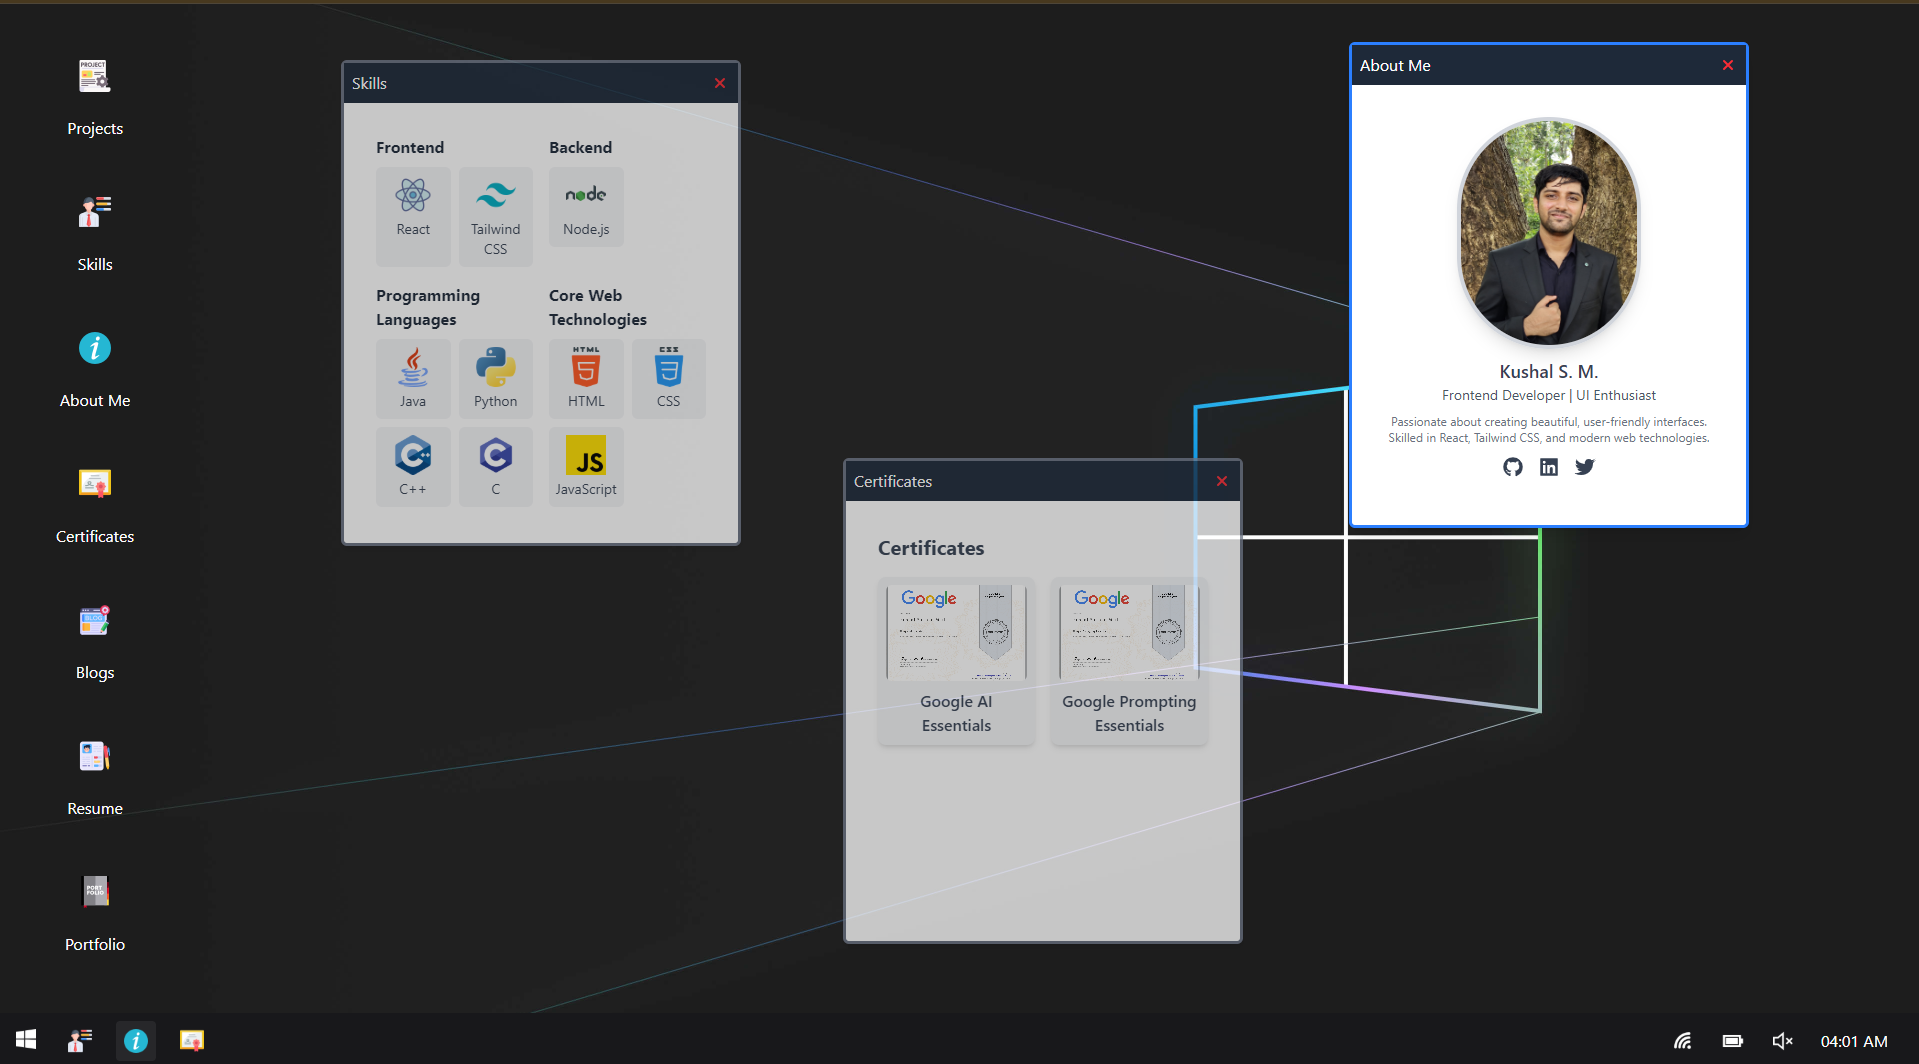
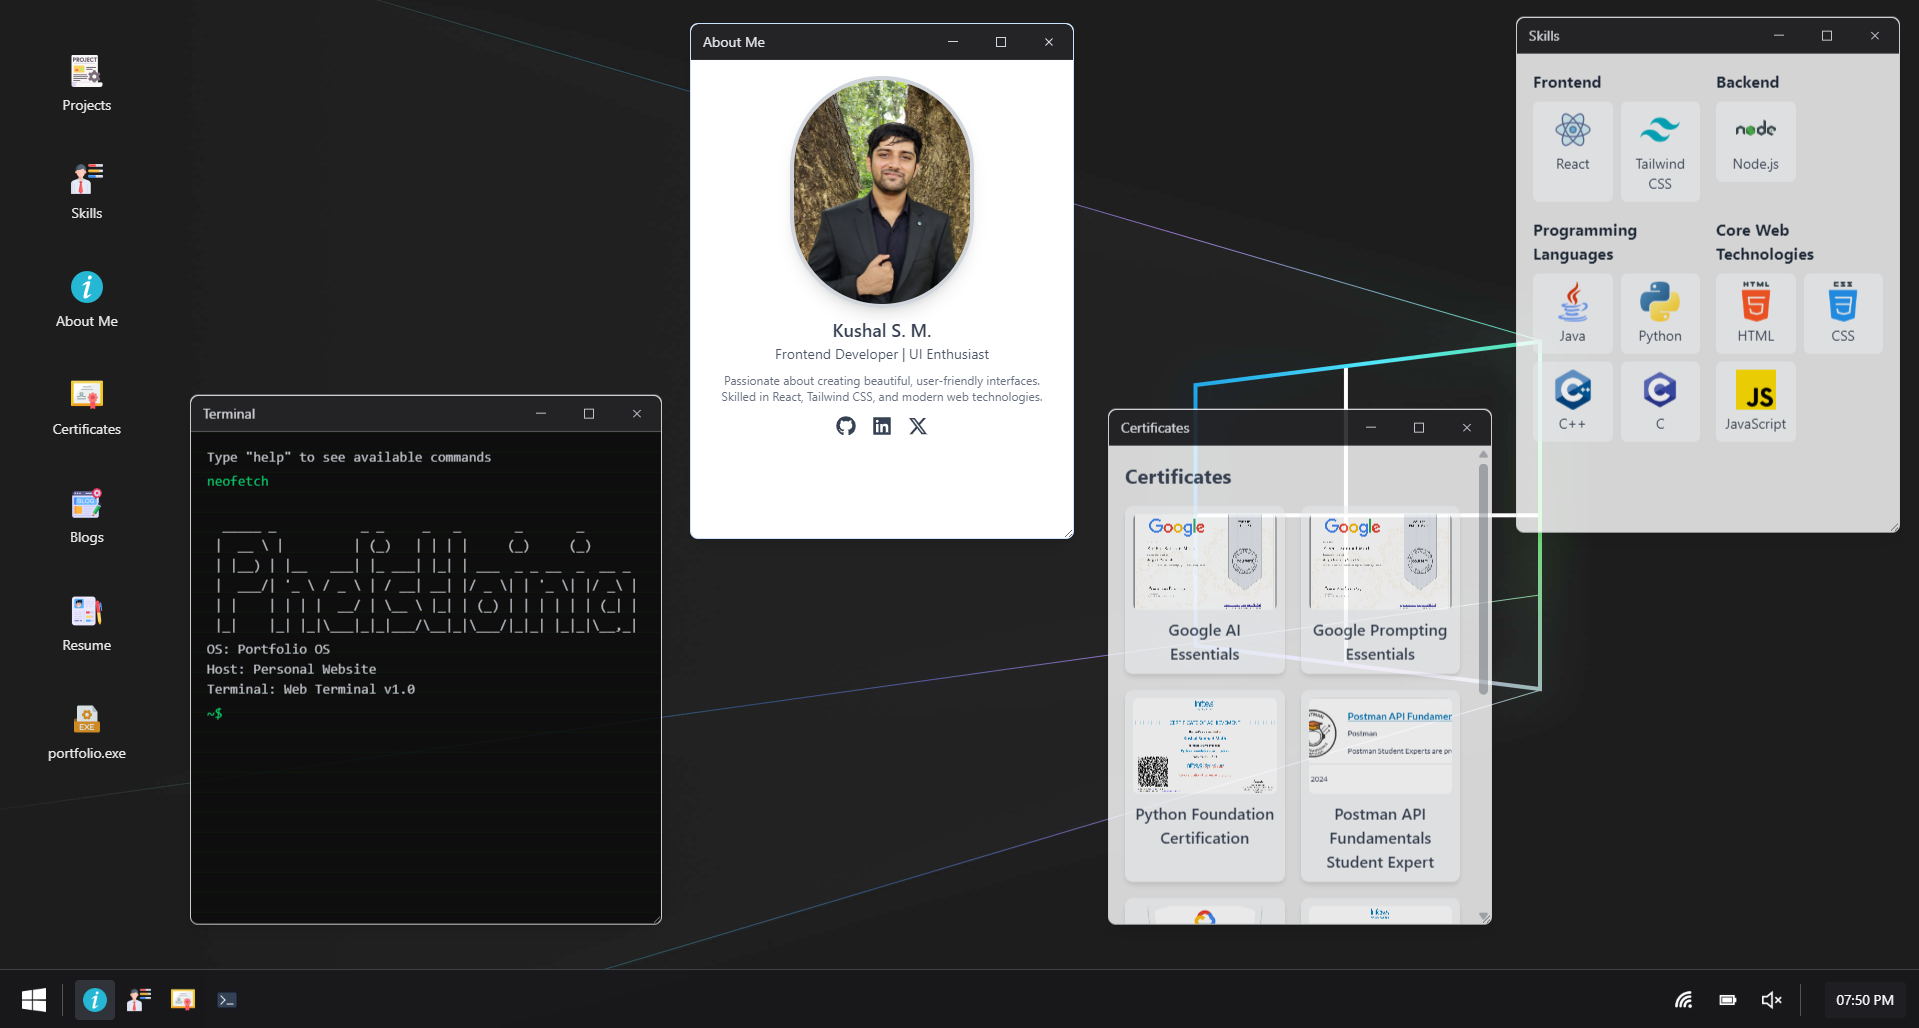
feat: added new projects

diff --git a/src/components/windowsUI/Terminal.jsx b/src/components/windowsUI/Terminal.jsx
@@ -88,6 +88,8 @@
 // export default Terminal;
 
 import React, { useState, useEffect, useRef } from "react";
+import { projects } from "../../data/projectsData";
+import { skillsData } from "../../data/skillsData";
 
 // ASCII Art for neofetch
 const ASCII_ART = `
@@ -98,7 +100,6 @@ const ASCII_ART = `
  | |    | | | |  __/ | \\__ \\ |_| | (_) | | | | | | (_| |
  |_|    |_| |_|\\___|_|_|___/\\__|_|\\___/|_|_| |_|_|\\__,_|
 `;
-
 
 // Help text
 const HELP_TEXT = `
@@ -143,17 +144,14 @@ Utility:
   echo [text] - Repeat back the input text
 `;
 
-// Sample data
-const PROJECTS = [
-    { name: 'portfolio', description: 'My personal portfolio website' },
-    { name: 'project-x', description: 'A secret project' },
-    { name: 'blog', description: 'My technical blog' },
-];
+// Convert projects data to terminal format
+const PROJECTS = projects.map(project => ({
+    name: project.name.toLowerCase().replace(/\s+/g, '-'),
+    description: project.description
+}));
 
-const SKILLS = [
-    'JavaScript (ES6+)', 'React', 'Node.js', 'Python',
-    'HTML/CSS', 'Git', 'Docker', 'AWS', 'SQL/NoSQL'
-];
+// Convert skills data to flat array for terminal display
+const SKILLS = Object.values(skillsData).flat().map(skill => skill.name);
 
 const FORTUNES = [
     "The only way to do great work is to love what you do.",
@@ -246,7 +244,23 @@ const Terminal = ({ onCommand, initialLogs = [], prompt = "$", showInput = true,
                 break; }
 
             case 'ls':
-                addOutput(PROJECTS.map(p => p.name).join('  '));
+                if (currentDir === '~') {
+                    // In root directory, show all project names
+                    addOutput(PROJECTS.map(p => p.name).join('  '));
+                } else {
+                    // In a project directory, show project details
+                    const projectName = currentDir.replace('~/', '');
+                    const project = projects.find(p => p.name.toLowerCase().replace(/\s+/g, '-') === projectName);
+                    if (project) {
+                        addOutput(`Project Details for ${project.name}:`);
+                        addOutput(`Name: ${project.name}`);
+                        addOutput(`Description: ${project.description}`);
+                        addOutput(`Live Demo: ${project.link || 'Not available'}`);
+                        addOutput(`GitHub: ${project.github || 'Not available'}`);
+                    } else {
+                        addOutput('Project not found', 'error');
+                    }
+                }
                 break;
 
             case 'cd':
@@ -371,15 +385,15 @@ const Terminal = ({ onCommand, initialLogs = [], prompt = "$", showInput = true,
                 </div>
             ))}
             {showInput && (
-                <div className="flex items-center">
-                    <span className="text-green-400">{currentDir}</span>
-                    <span className="text-green-400">{prompt}</span>
+                <div className="flex items-center flex-nowrap">
+                    <span className="text-green-400 whitespace-nowrap">{currentDir}</span>
+                    <span className="text-green-400 whitespace-nowrap">{prompt}</span>
                     <input
                         type="text"
                         value={input}
                         onChange={(e) => setInput(e.target.value)}
                         onKeyDown={handleKeyDown}
-                        className="terminal-input bg-transparent border-none outline-none ml-1.5 text-green-400 w-full relative"
+                        className="terminal-input bg-transparent border-none outline-none ml-1.5 text-green-400 w-full relative min-w-0 flex-1"
                         autoFocus
                         spellCheck="false"
                     />

diff --git a/src/components/portfolio/ProjectCard.jsx b/src/components/portfolio/ProjectCard.jsx
@@ -1,30 +1,54 @@
 import React from "react";
+import { FaGithub } from "react-icons/fa";
 
 const ProjectCard = ({ project }) => {
+    const handleCardClick = () => {
+        if (project.link) {
+            window.open(project.link, '_blank', 'noopener,noreferrer');
+        }
+    };
+
+    const handleGithubClick = (e) => {
+        e.stopPropagation(); // Prevent card click when clicking GitHub button
+        if (project.github) {
+            window.open(project.github, '_blank', 'noopener,noreferrer');
+        }
+    };
+
     return (
-        <a
-            href={project.link || "#"}
-            target="_blank"
-            rel="noopener noreferrer"
-            className="block w-full p-5 bg-gray-800/20 shadow-lg rounded-xl transition-transform duration-500 hover:scale-90"
+        <div
+            className={`block w-full p-5 bg-gray-800/20 shadow-lg rounded-xl transition-transform duration-500 hover:scale-90 relative ${
+                project.link ? 'cursor-pointer' : ''
+            }`}
+            onClick={handleCardClick}
         >
-            {/* Project Image */}
+            {/* GitHub Button - Positioned absolutely in top-left corner */}
+            {project.github && (
+                <button
+                    onClick={handleGithubClick}
+                    className="absolute top-3 right-3 bg-gray-700 hover:bg-gray-600 text-white p-2 rounded-full transition-colors duration-300 z-10"
+                >
+                    <FaGithub className="w-4 h-4" />
+                </button>
+            )}
+
+            {/* Project Image - Increased height for desktop */}
             <img
                 src={project.image}
                 alt={project.name}
-                className="w-full h-100 object-cover rounded-lg"
+                className="w-full h-48 sm:h-60 md:h-80 lg:h-96 xl:h-[28rem] object-cover rounded-lg"
             />
 
-            {/* Project Name */}
-            <h3 className="text-xl font-bold text-center mt-3 uppercase tracking-wide text-white transition-all duration-300 hover:text-primary">
+            {/* Project Name - Always visible */}
+            <h3 className="text-lg sm:text-xl font-bold text-center mt-3 uppercase tracking-wide text-white transition-all duration-300 hover:text-primary">
                 {project.name}
             </h3>
 
-            {/* Project Description */}
-            <p className="text-gray-400 text-center text-sm mt-1">
+            {/* Project Description - Always visible */}
+            <p className="text-gray-400 text-center text-sm mt-1 mb-4 px-2">
                 {project.description}
             </p>
-        </a>
+        </div>
     );
 };
 

diff --git a/src/data/projectsData.js b/src/data/projectsData.js
@@ -1,0 +1,50 @@
+import weatherApp from "/assets/projectImg/weatherapp.png";
+import portfolioWebsite from "/assets/projectImg/portfoliowebsite.png";
+import attendanceTracker from "/assets/projectImg/attendancetracker.png";
+import mangaloreBusRoutes from "/assets/projectImg/mangalorebusroutes.png";
+import sainikSahayak from "/assets/projectImg/sainisahayak.png";
+
+export const projects = [
+    {
+        name: "Weather App",
+        description: "Real-time weather updates with OpenWeather API.",
+        image: weatherApp,
+        link: "https://mrkushalsm-weather-app.vercel.app/",
+        github: "https://github.com/mrkushalsm/Weather-App",
+    },
+    {
+        name: "Portfolio Website",
+        description: "A personal portfolio styled like a Windows desktop.",
+        image: portfolioWebsite,
+        link: "https://mrkushalsm.vercel.app/",
+        github: "https://github.com/mrkushalsm/Portfolio",
+    },
+    {
+        name:"Armed Forces Welfare Management System",
+        description: "A comprehensive welfare management system designed specifically for armed forces personnel and their families.",
+        image: sainikSahayak,
+        link: "https://quantum-skill-sangam25.vercel.app/",
+        github: "https://github.com/mrkushalsm/quantum-skill-sangam25",
+    },
+    {
+        name: "Smart Attendance Tracker App",
+        description: "Mobile-first, privacy-focused attendance tracker for students—no login, offline support, and local data storage.",
+        image: attendanceTracker,
+        link: "https://mrkushalsm-attendance-tracker.vercel.app/",
+        github: "https://github.com/mrkushalsm/Attendance-Tracker",
+    },
+    {
+        name: "Mangalore Bus Routes Finder",
+        description: "An intelligent bus route finder for Mangalore city, powered by AI to provide smart route suggestions and journey planning.",
+        image: mangaloreBusRoutes,
+        link: "",
+        github: "https://github.com/mrkushalsm/Mangalore-Bus-Routes",
+    },
+    {
+        name: "Earn Easy",
+        description: "A marketplace for students to buy, sell and rent things, conveniently.",
+        image: "",
+        link: "",
+        github: "https://github.com/so-sc/EarnEasy",
+    },
+];

diff --git a/src/pages/portfolio/Projects.jsx b/src/pages/portfolio/Projects.jsx
@@ -1,35 +1,7 @@
 import React, { useState } from "react";
 import { motion, AnimatePresence } from "framer-motion";
 import ProjectCard from "../../components/portfolio/ProjectCard";
-import weatherApp from "/assets/projectImg/weatherapp.png";
-import portfolioWebsite from "/assets/projectImg/portfoliowebsite.png";
-
-const projects = [
-    {
-        name: "Weather App",
-        description: "Real-time weather updates with OpenWeather API.",
-        image: weatherApp,
-        link: "https://weather-app-teal-omega.vercel.app/",
-    },
-    {
-        name: "Portfolio Website",
-        description: "A personal portfolio styled like a Windows desktop.",
-        image: portfolioWebsite,
-        link: "",
-    },
-    {
-        name: "Task Manager",
-        description: "Drag-and-drop task management with ease.",
-        image: "https://source.unsplash.com/500x300/?task,management",
-        link: "",
-    },
-    {
-        name: "E-Commerce Platform",
-        description: "A full-stack online shopping experience.",
-        image: "https://source.unsplash.com/500x300/?ecommerce",
-        link: "",
-    },
-];
+import { projects } from "../../data/projectsData";
 
 const Projects = () => {
     const [currentIndex, setCurrentIndex] = useState(0);
@@ -66,8 +38,8 @@ const Projects = () => {
                     ❮
                 </button>
 
-                {/* Project Card with responsive height */}
-                <div className="w-full h-[350px] sm:h-[400px] md:h-[450px] lg:h-[500px] flex justify-center items-center overflow-hidden">
+                {/* Project Card with responsive height - Auto height to fit content */}
+                <div className="w-full min-h-[400px] sm:min-h-[450px] md:min-h-[500px] lg:min-h-[600px] xl:min-h-[700px] flex justify-center items-start overflow-visible">
                     <AnimatePresence mode="wait">
                         <motion.div
                             key={currentIndex}

diff --git a/src/components/windowsUI/PortfolioLoader.jsx b/src/components/windowsUI/PortfolioLoader.jsx
@@ -102,7 +102,7 @@ const PortfolioLoader = () => {
         
         // Update progress
         const newProgress = Math.min(100, ((index + 1) / loadingMessages.length) * 100);
-        setProgress(newProgress);
+        setProgress(parseFloat(newProgress.toFixed(2)));
         
         // Add a small delay before next command
         await new Promise(resolve => setTimeout(resolve, 300));
@@ -149,14 +149,14 @@ const PortfolioLoader = () => {
 
     return (
         <div 
-            className="h-screen w-full bg-black text-green-400 font-mono p-4 sm:p-8 flex flex-col"
+            className="h-screen w-full bg-black text-green-400 font-mono relative"
             style={{
                 background: 'rgba(0, 0, 0, 0.95)',
                 backgroundImage: 'linear-gradient(rgba(0, 255, 0, 0.03) 1px, transparent 1px)',
                 backgroundSize: '100% 24px',
             }}
         >
-            <div className="flex-1 overflow-y-auto" ref={containerRef}>
+            <div className="h-full p-4 sm:p-8 pb-20 overflow-y-auto" ref={containerRef}>
                 <div className="min-h-full flex flex-col">
                     <div className="mb-4">
                         {lines.map((line, index) => (
@@ -173,7 +173,9 @@ const PortfolioLoader = () => {
                     <div className="flex-1" />
                 </div>
             </div>
-            <div className="mt-4">
+
+            {/* Fixed progress bar at bottom */}
+            <div className="fixed bottom-0 left-0 right-0 p-4 sm:p-8 bg-black bg-opacity-95">
                 <div className="h-1 w-full bg-gray-800 rounded overflow-hidden">
                     <div 
                         className="h-full bg-green-500 transition-all duration-300"

diff --git a/src/components/portfolio/ProfileCard.jsx b/src/components/portfolio/ProfileCard.jsx
@@ -47,7 +47,7 @@ const ProfileCard = () => {
                         {/* Base Image (profile-bw.jpg) */}
                         {isDesktop && (
                             <img
-                                src="/assets/profile-bw.jpg"
+                                src="/assets/profile.jpeg"
                                 alt="Profile Default"
                                 className={`absolute rounded-full border-4 border-zinc-300 transition-opacity duration-500 w-53 h-70
                                     ${isHovered ? "opacity-0" : "opacity-100"}

diff --git a/src/pages/windowsUI/AboutMe.jsx b/src/pages/windowsUI/AboutMe.jsx
@@ -1,5 +1,5 @@
 import React from "react";
-import profilePic from "/assets/profile.jpeg"; // Replace with actual image
+import profilePic from "/assets/profile.jpeg";
 import { FaGithub, FaLinkedin } from "react-icons/fa";
 import {FaXTwitter} from "react-icons/fa6";
 
